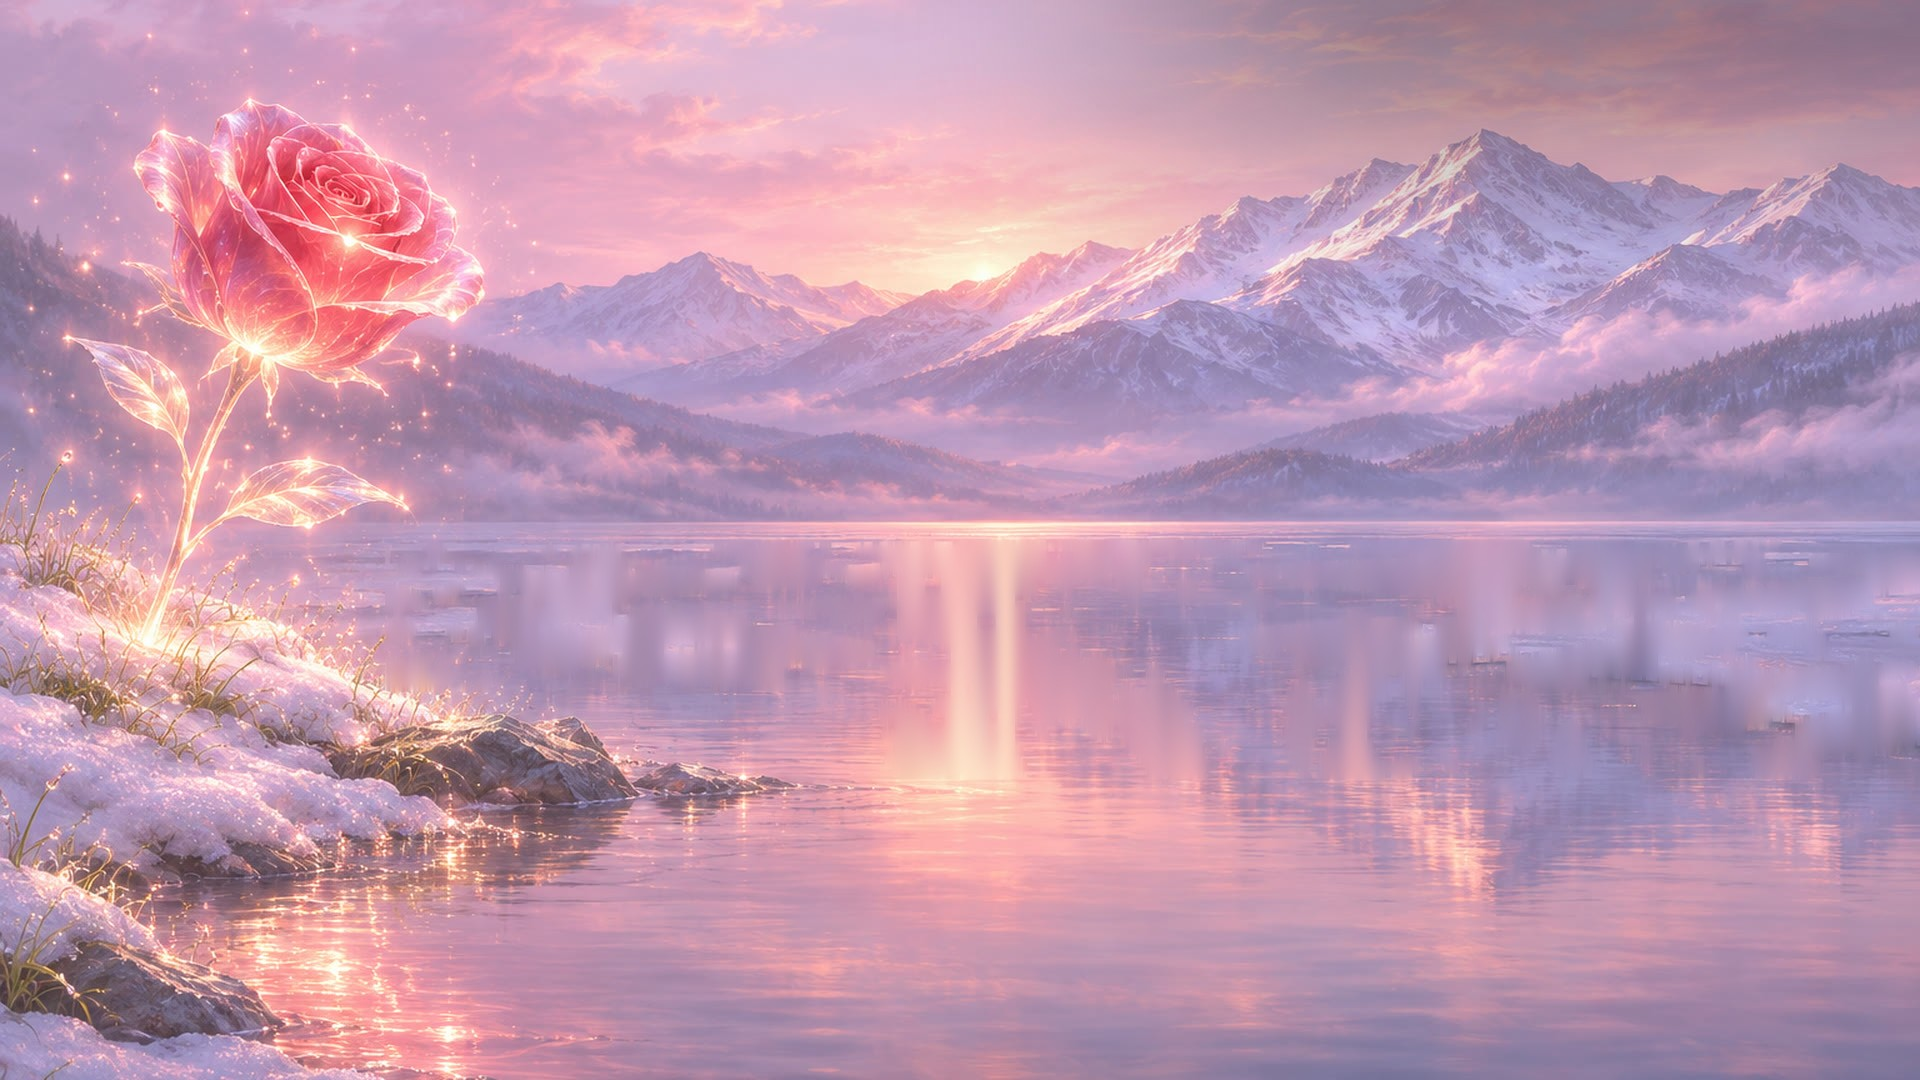
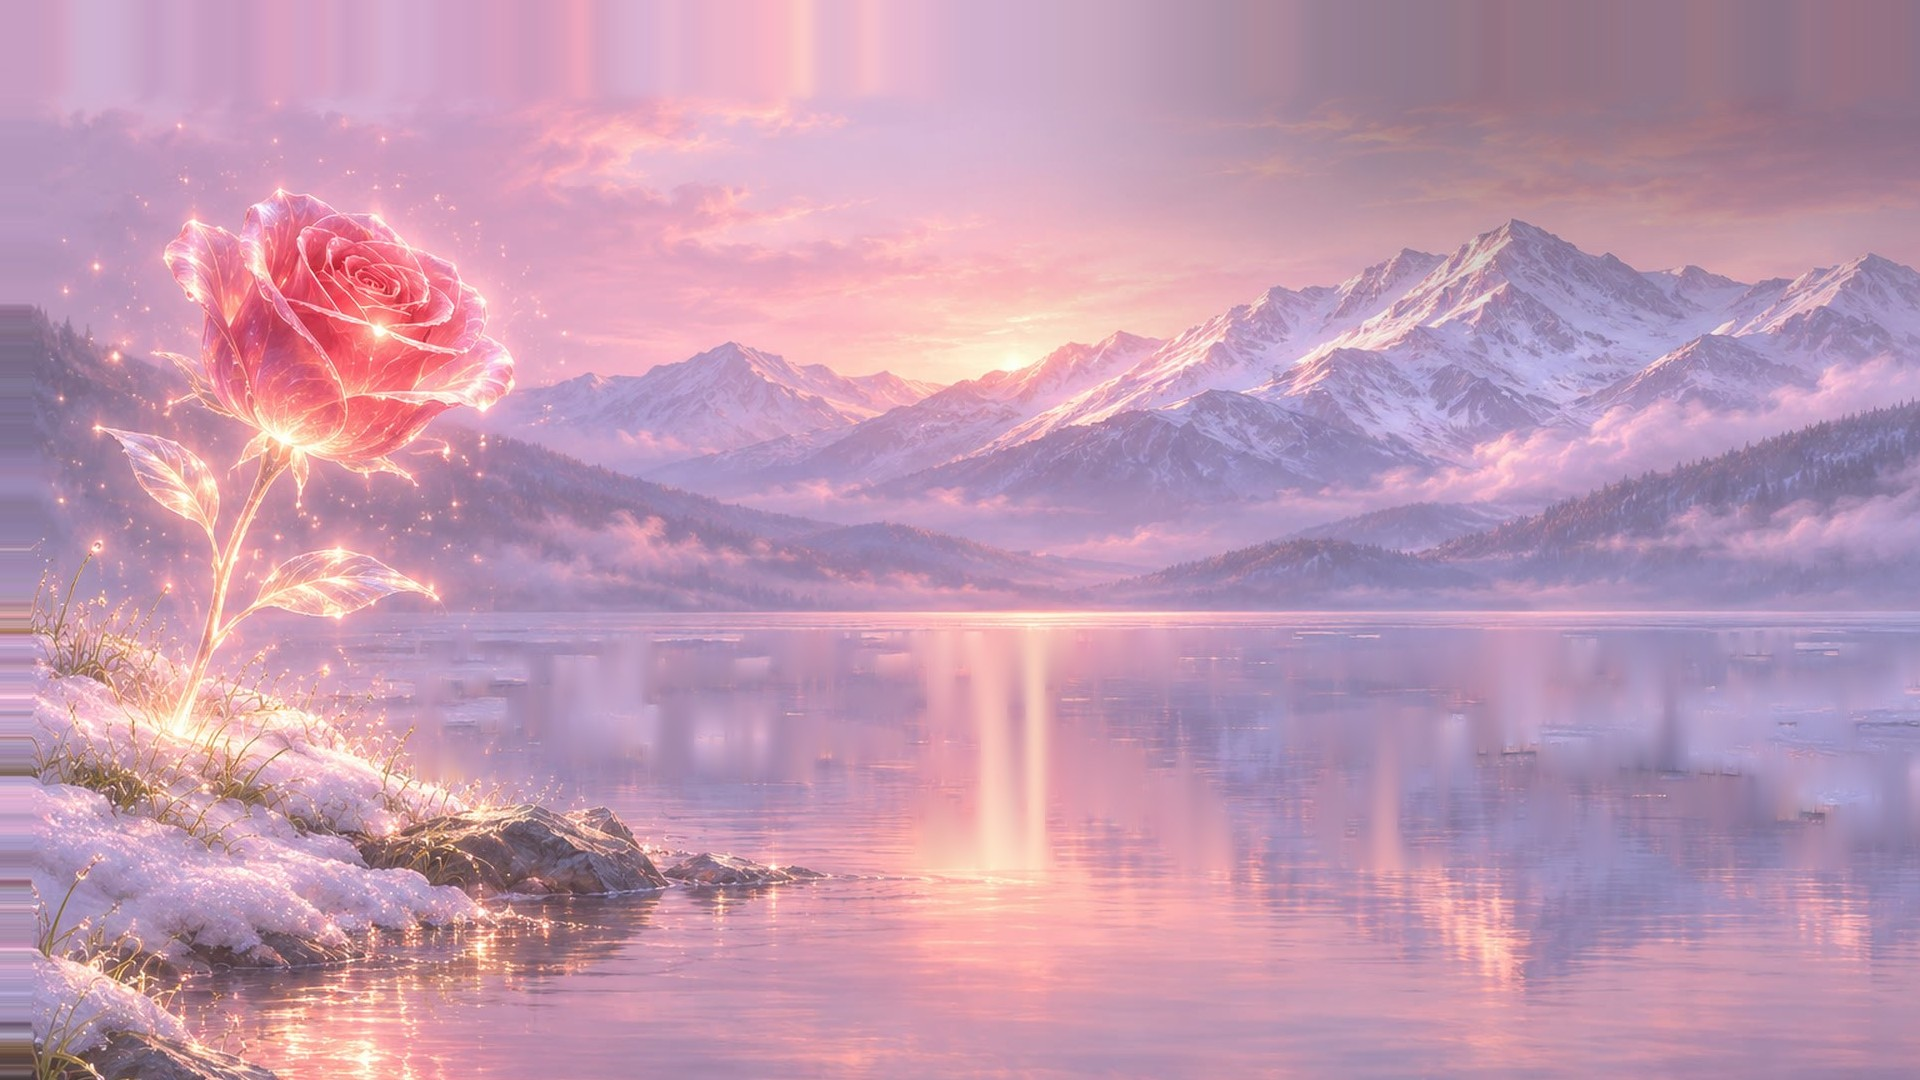
Song 02 v2 round 3: rose plate shifted clear of the title; status for the new direction
Claude-Session: https://claude.ai/code/session_01DSHsMeB7ain7qg3RYXYMEW

diff --git a/engine/songs/s02_the_rose.py b/engine/songs/s02_the_rose.py
@@ -203,7 +203,7 @@ SCENES = [
          gain=Track([(0, 1.0), (30.5, 1.0), (32.0, 0.82), (TOTAL, 0.82)])),
     # the rose shore holds to the end: the end card stands on the close dawn shore beside the rose
     dict(image=P + "e_thaw_rose.jpg", t0=39.7, t1=61.0, fade_in=2.5, fade_out=0.0, transition="fade",
-         zoom=(1.10, 1.17), pan=((-0.05, 0.045), (-0.05, 0.045)),
+         zoom=(1.06, 1.12), pan=((0.0, 0.0), (0.0, 0.0)),   # the plate itself is shifted down and right
          gain=Track([(0, 0.85), (41.0, 0.85), (42.0, 0.78), (47.0, 0.78), (49.0, 0.86), (51.0, 0.68),
                      (TOTAL, 0.68)])),
 ]

diff --git a/project-docs/status/02.md b/project-docs/status/02.md
@@ -59,3 +59,14 @@ Attacker findings (round 2), outcome: HIGH 1 scenes share one composition: fixed
 
 Runs: stills 43562230229, 43562588794 (first build, superseded), 43566298978, 43566668684 (plates, before the engine merge), 43566932874 (15 frames on the merged engine: 3, 8, 13, 17, 21, 24.5, 28.8, 33.5, 36.5, 41, 44, 48, 51, 55, 58.5, every frame looked at full size). First video run 43562865367 is superseded. Final video: see the log line below.
 - Final video run 43567295347 (merged engine, commit with plain fades): success, finish job 1800 frames (60 s). Artifacts "02 The Rose - 1 Minute Promo v2, visual only, no music yet" (full), "02 The Rose - 1 Minute Promo v2, visual only, no music yet (share)" (17.5 MB) and "... frames"; all four frame sheets (32 frames) checked. Open: the ripple into the rose scene (about 37.5 to 40 s) draws a thin bright ring across the seed plate for a moment; the rose plate shows painted ice floes; the trio figures' pose 3 is five people side by side (three women, traveler, and the pose's own fifth helper shape), read as the group standing together.
+
+## Round 3 (2026-11-14): Anthony's new direction and the round 2 review
+Anthony's direction (scratchpad DIRECTION-R3, from the coordinator): a promo is a clip of the real full-song backdrop; people of light are rare and always moving, never posing under the words. What changed:
+- People: one brief appearance only, 11.0 to about 16.1 s, in scene 2 (the candle field): the song's own figures gather out of the light (the women relighting the kneeling traveler's lantern), move into pose 3 (the traveler rises with them, lantern raised) at 12.6, and from 13.9 drift up and dissolve as light. Pale gold (#ffd9a8), glow 0.9, at x 0.40 beside the violet column, feet at 0.34. They are gone before the words form. Encouragement is carried by the words, the violet light, the star 7 relight and the violet thread to the seed.
+- Encouragement: form 16.4, fully formed about 20.15, fly 26.3 (6.15 s solid), arrive at star 7 at 28.8.
+- Four scenes now (the f_spring_dawn wide lake end card is gone): 1 first snow (0 to 13), 2 candle field (10.5 to 30), 3 the seed under the snow (27.5 to 42.2), 4 the rose shore from 39.7 to the end, with the end card on the same close dawn shore. All transitions are plain fades; the ripple is gone.
+- "the seed" moved earlier (31.0 to 33.6, out 36.6) and is gone before the rose scene starts at 39.7 (checked at 37.8 and 39.5). "becomes the rose" 41.2 to 44.0, out 47.0. End card TITLE_HIT 52.6, tagline from 53.8, fade from 59.4.
+- Plate touch-ups (in the repo files, from the Drive originals): a_first_snow top left star band dimmed (Milky Way is song 01's); c_violet_ice light column and glowing pool darkened toward deep violet behind the people and its bottom candles calmed, plate framed up; d_seed ice ceiling darkened near the arch (star 7 and its new ring now show); e_thaw_rose ice floes painted out, sky near the arch calmed, the picture shifted down and right so the rose clears the corner title. b_frozen_lake and f_spring_dawn removed from the repo (unused).
+- Pose 3 (trio_3_rise) checked at full size: it shows four people (three women and the hooded traveler); the traveler's raised lantern arm can read as a fifth head in sparks. It is now on screen only for about 2 seconds while dissolving.
+- Not done: tinting the text shadow violet (the engine has no setting for its color).
+- Stills run 43568798893 (17 frames, every one looked at full size). Stills run 43568515416 (the round 3 fixes before the new direction) superseded.
